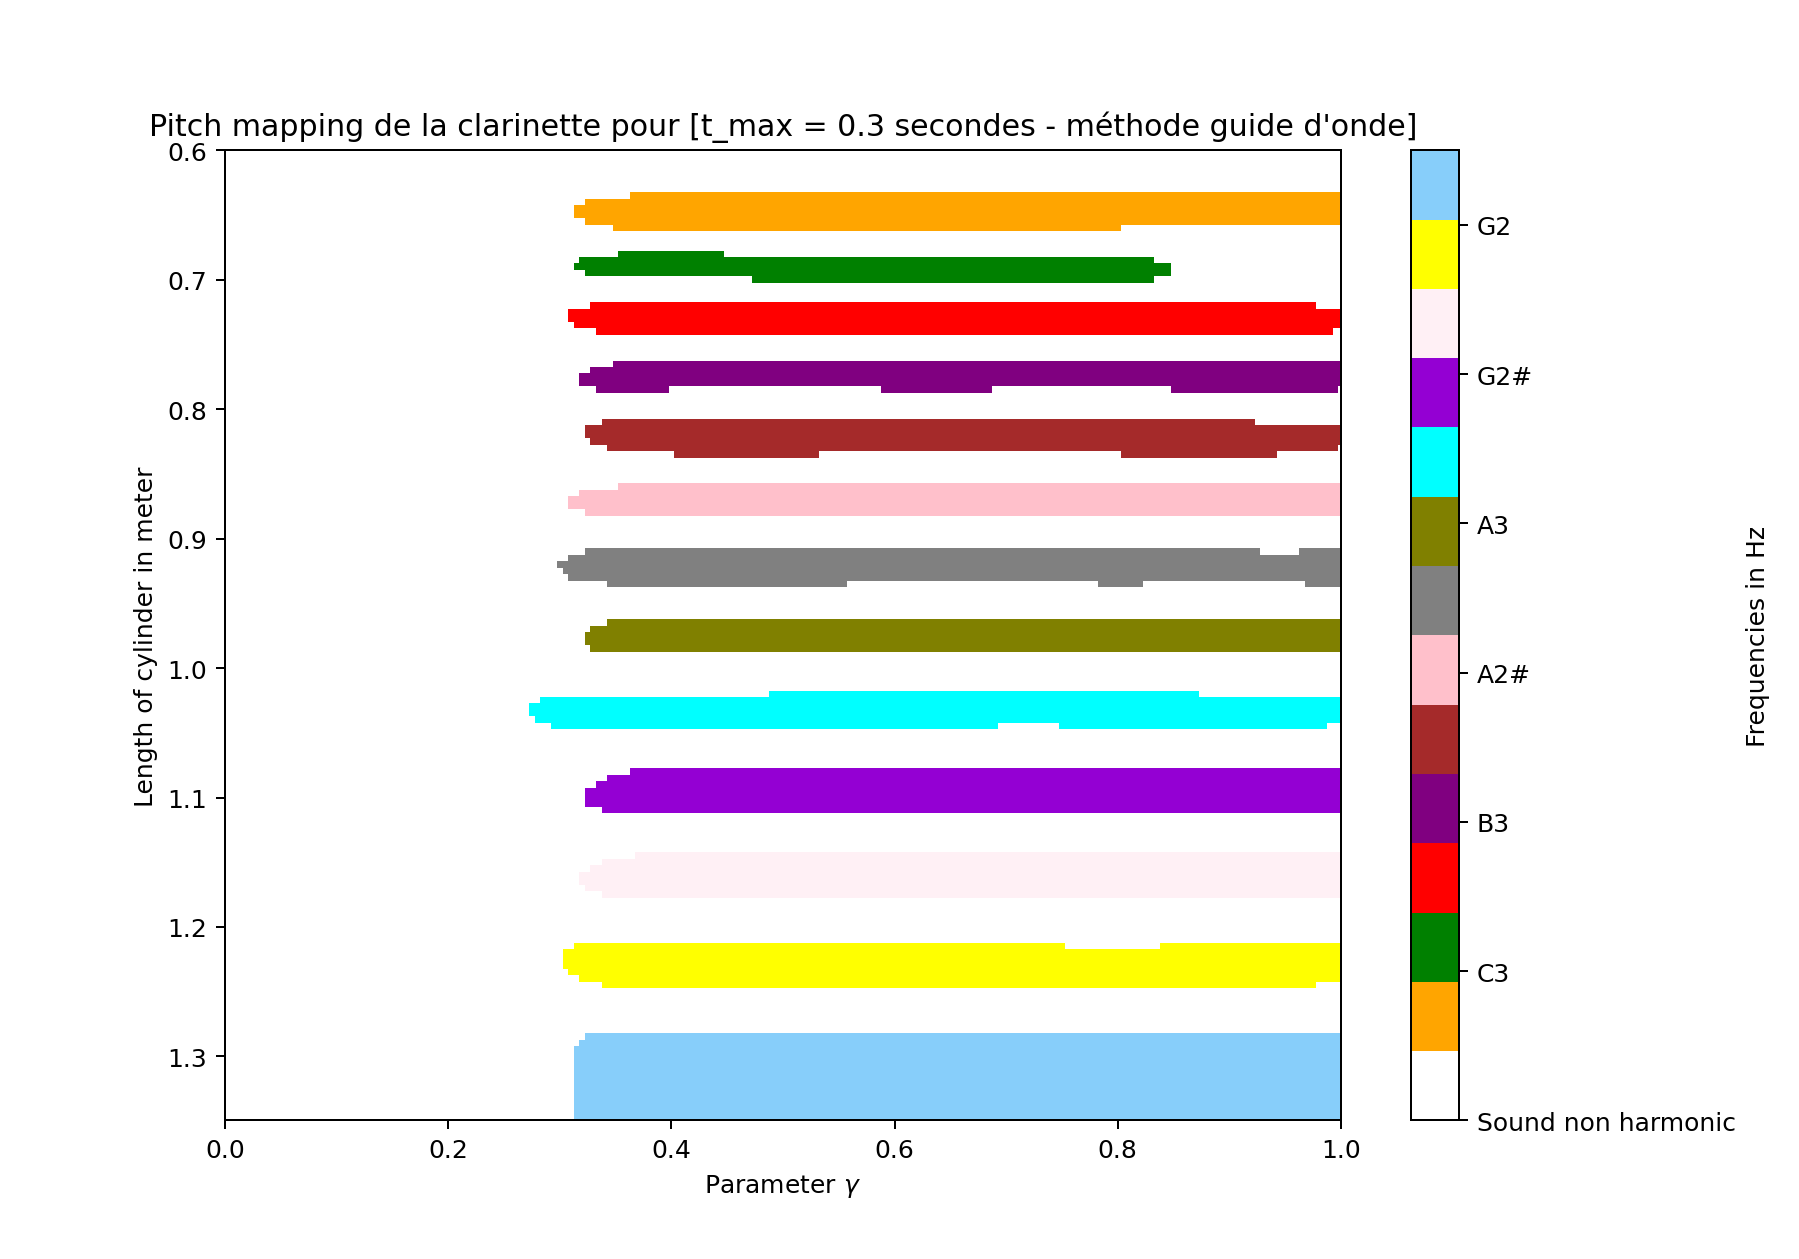
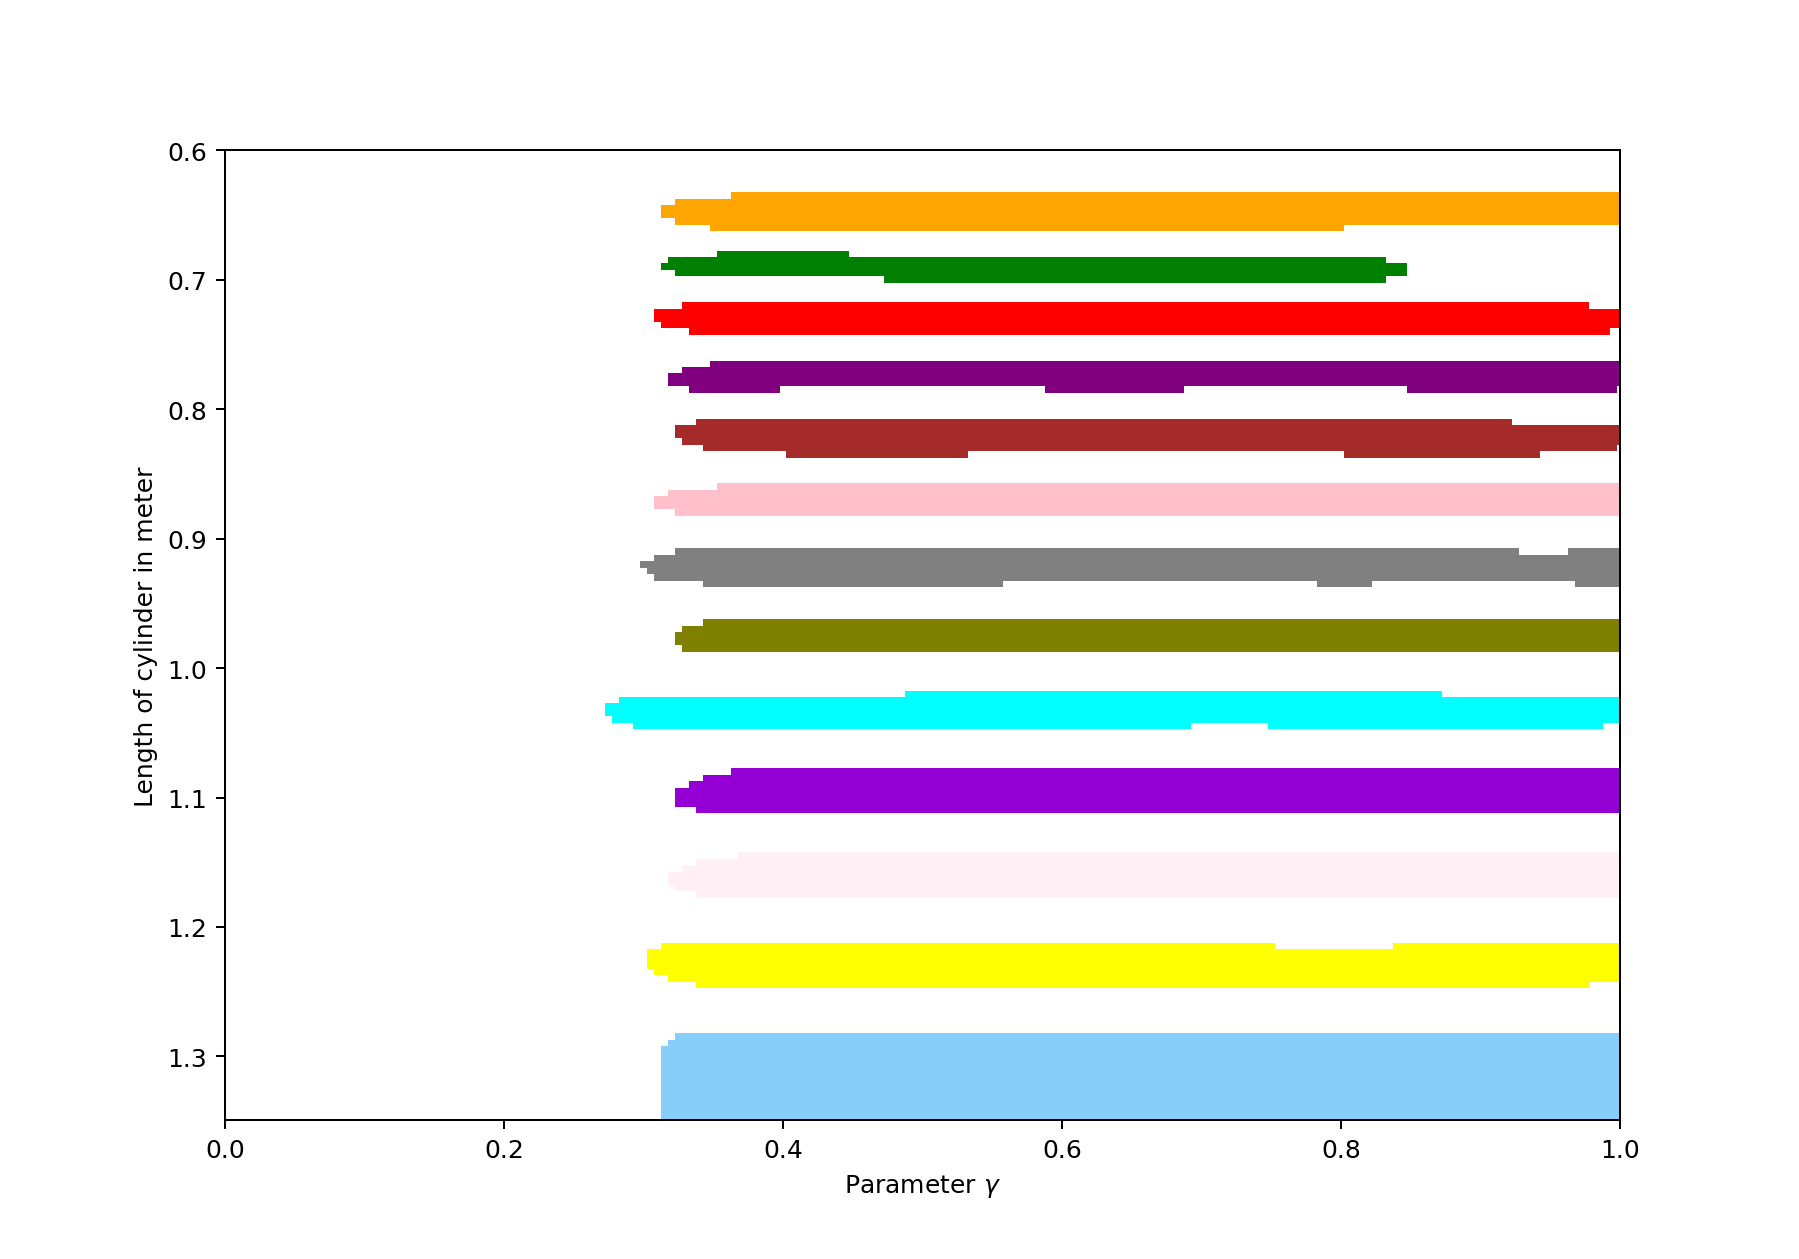
Mapping

diff --git a/mapping_simulation.m b/mapping_simulation.m
@@ -1,57 +1,62 @@
 fontSize = 14; 
-%++++++++++++++++++++++++++++++++++++++++++++++++++++++++++++++++++++++++++++++
-%++++++++++++++++++++++++++++++++++++++++++++++++++++++++++++++++++++++++++++++
+%++++++++++++++++++++++++++++++++++++++++++++++++++++++++++++++++++++++++++
+%++++++++++++++++++++++++++++++++++++++++++++++++++++++++++++++++++++++++++
 % By Malena Fouillou
 %
 % Implémentation de la méthode d'échantillonnage adaptatif dans le cas d'une étude des régimes
 % de fonctionnement des instruments auto-oscillant : clarinette et violon.
 %
-% --> Elle comprend la définiton des paramètres observée souhaités : le type d'instrument, le
-%     descripteur, le type de modèle pour la simulation, les paramètres de
-%     contrôle observés etc.
+% --> Elle comprend en entrée la définiton des paramètres observée souhaités : 
+%     - le type d'instrument : clarinette,violon
+%     - le descripteur : soit le pitch , soit la présence de son 
+%     - le type de modèle pour la simulation : guide d'onde ou modale
+%     - les paramètres de contrôle observés : gamma/zeta ou
+%       gamma/longueur du résonnateur
+%     - 
+%
 % --> L'algorithme fait appel à des fonctions Python situés dans 'run_simulation.py, 'descripteurs_utiles.py' et dans le dossier
 %     "modelisation_physique".
 %
-%++++++++++++++++++++++++++++++++++++++++++++++++++++++++++++++++++++++++++++++
-%++++++++++++++++++++++++++++++++++++++++++++++++++++++++++++++++++++++++++++++
+%++++++++++++++++++++++++++++++++++++++++++++++++++++++++++++++++++++++++++
+%++++++++++++++++++++++++++++++++++++++++++++++++++++++++++++++++++++++++++
 
-modele = "guide_onde"    % Modèle choisit : guide_onde ou modale
-descriptor = "are_there_oscillations"     % Descripteur à observer
-instrument ='corde' % Type d'instrument étudié
+instrument ='clarinette'                                                   % Type d'instrument étudié
+descriptor = "are_there_oscillations"                                      % Descripteur à observer
+modele = "modale"                                                      % Modèle choisit 
+
 
 % Paramètres de contrôle 
 abscisse = "gamma" 
-abscisse_max = 1  %Étendue de l'axe
+abscisse_max = 1                                                           %Étendue de l'axe
 ordonnee = "zeta" 
-ordonnee_max = 5
+ordonnee_max = 2
 
 % Chargement des paramètres des modèles
-t_max= 0.3         % Durée de la simulation (secondes)
-Fe = 44100         % Fréquence d'échantillonnage (Hz)
-L= 0.6             % Longueur du cylindre (mètre)
-c = 340            % Vitesse des ondes dans l'instrument
-nb_mode = 2        % Nombre de modes considérés dans la méthode modale
-durete_rampe = 20 
-arg_modele= [t_max Fe L c nb_mode durete_rampe] % Arguments en entrée de la fonction du modèle considéré
+t_max= 0.3                                                                 % Durée de la simulation (secondes)
+Fe = 44100                                                                 % Fréquence d'échantillonnage (Hz)
+L= 0.6                                                                    % Longueur du cylindre/corde (mètre)
+c = 340                                                                    % Vitesse des ondes dans l'instrument
+nb_mode = 2                                                                % Nombre de modes considérés ( dans la méthode modale )
+durete_rampe = 20                                                          % Pente d'évolution de gamma
+% Arguments en entrée de la fonction du modèle considéré : 
+arg_modele= [t_max Fe L c nb_mode durete_rampe] 
 
 % Chargement des paramètres des descripteurs : fréquences harmoniques observées sur une gamme choisie
 note_frequencies = [65.41, 69.3, 73.42, 77.78, 82.41, 87.31, 92.5, 98, 103.83, 110, 116.54, 123.47, 130.8] 
 
 % Chargement des paramètres de sampling
-num_samples = 50  % Nombre de points pour le mapping initiale
-iterations =  150 % Nombre d'itérations de la méthode d'échantillonnage adaptatif
-
-
+num_samples = 30                                                           % Nombre de points pour le mapping initiale
+iterations =  150                                                          % Nombre d'itérations de la méthode d'échantillonnage adaptatif
 
 if descriptor == "are_there_oscillations"
 
-    %++++++++++++++++++++++++++++++++++++++++++++++++++++++++++++++++++++++++++
+    %++++++++++++++++++++++++++++++++++++++++++++++++++++++++++++++++++++++
     % ECHANTILLONNAGE INITIAL - OSCILLATIONS ENTRETENUES 
-    %++++++++++++++++++++++++++++++++++++++++++++++++++++++++++++++++++++++++++
+    %++++++++++++++++++++++++++++++++++++++++++++++++++++++++++++++++++++++
     % Paramètres descripteurs
-    dim1 = [0,abscisse_max] % Étendue des axes, ici gamma 
-    dim2 = [0,ordonnee_max] % Ici Zeta
-    epsilon = 0.6           % Critère d'amplitude d'oscillations 
+    dim1 = [0.1,abscisse_max]                                              % Étendue des axes, ici gamma 
+    dim2 = [0,ordonnee_max]                                                % Ici Zeta
+    epsilon = 0.6                                                          % Critère d'amplitude d'oscillations 
     arg_descriptor= [epsilon]
     
     % Sélection de points au hasard : 
@@ -78,9 +83,9 @@ if descriptor == "are_there_oscillations"
      % Calcul de sa SVM
      svm =CODES.fit.svm(X,label);
    
-     %++++++++++++++++++++++++++++++++++++++++++++++++++++++++++++++++++++++++++
+     %+++++++++++++++++++++++++++++++++++++++++++++++++++++++++++++++++++++
      % ECHANTILLONNAGE ADAPTATIF - OSCILLATIONS ENTRETENUES 
-     %++++++++++++++++++++++++++++++++++++++++++++++++++++++++++++++++++++++++++
+     %+++++++++++++++++++++++++++++++++++++++++++++++++++++++++++++++++++++
      for i=2:iterations
          % Calcul d'un nouveau sample
          x_mm=CODES.sampling.mm(svm,[min(dim1) min(dim2)],[max(dim1) max(dim2)]);
@@ -117,15 +122,15 @@ if descriptor == "are_there_oscillations"
 
 elseif descriptor == "pitch"
     
-    %++++++++++++++++++++++++++++++++++++++++++++++++++++++++++++++++++++++++++
+    %++++++++++++++++++++++++++++++++++++++++++++++++++++++++++++++++++++++
     % ECHANTILLONNAGE INITIAL : PITCH
-    %++++++++++++++++++++++++++++++++++++++++++++++++++++++++++++++++++++++++++
-    indices_freq_ = [11] % Fréquences observées pour la classification one VS all
-    zeta = 0.5  % Zeta constant 
-    epsilon_length = 0.05     % Marge de longueurde l'instrument
-    osc_threshold = 0.6       % Critère d'oscillations (ou non)
-    cents_threshold = 15      % Différence maximale en cent par rapport à la note de référence 
-    dim1 = [0.1,abscisse_max] % Valeurs de gamma
+    %++++++++++++++++++++++++++++++++++++++++++++++++++++++++++++++++++++++
+    indices_freq_ = [8]                                                   % Fréquences observées pour la classification one VS all
+    zeta = 0.6                                                             % Zeta constant 
+    epsilon_length = 0.05                                                  % Marge de longueurde l'instrument
+    osc_threshold = 0.6                                                    % Critère d'oscillations (ou non)
+    cents_threshold = 15                                                   % Différence maximale en cent par rapport à la note de référence 
+    dim1 = [0.1,abscisse_max]                                              % Valeurs de gamma
     dim2 = [ c/(4*note_frequencies(end))-epsilon_length,  c/(4*note_frequencies(1))+epsilon_length]
 
     figure('Position',[200 200 500 500])
@@ -162,18 +167,19 @@ elseif descriptor == "pitch"
             end
         end
 
-        if sum(label)==0 % Si la fréquence observée n'est pas trouvé (tous les labels =0) l'algorithme passe
-                         % à la suivante, sinon il suit à la méthode
-                         % d'échantillonnage adaptatif
+        if sum(label)==0                                                   % Si la fréquence observée n'est pas trouvé
+                                                                           % (tous les labels       =0), l'algorithme passe
+                                                                           % à la suivante, sinon il suit à la méthode
+                                                                           % d'échantillonnage adaptatif
             continue
         else 
 
             % Calcul de sa SVM
             svm =CODES.fit.svm(X,label);
 
-            %++++++++++++++++++++++++++++++++++++++++++++++++++++++++++++++++++
+            %++++++++++++++++++++++++++++++++++++++++++++++++++++++++++++++
             % ECHANTILLONNAGE ADAPTATIF : PITCH
-            %++++++++++++++++++++++++++++++++++++++++++++++++++++++++++++++++++
+            %++++++++++++++++++++++++++++++++++++++++++++++++++++++++++++++
             for n=2:iterations
                 % Calcul d'un nouveau sample
                 x_mm=CODES.sampling.mm(svm,[min(dim1) min(dim2)],[max(dim1) max(dim2)]);
@@ -215,9 +221,9 @@ elseif descriptor == "pitch"
     % note_frequencies(1))
     % telle que la fonction labels de 'run_simulation.py' renvoie idx = 0.
     freq0 = 0 
-    %++++++++++++++++++++++++++++++++++++++++++++++++++++++++++++++++++++++++++
+    %++++++++++++++++++++++++++++++++++++++++++++++++++++++++++++++++++++++
     % ECHANTILLONNAGE INITIAL : PITCH
-    %++++++++++++++++++++++++++++++++++++++++++++++++++++++++++++++++++++++++++    
+    %++++++++++++++++++++++++++++++++++++++++++++++++++++++++++++++++++++++
     % Sélection de points au hasard : 
     X  = double(pyrunfile("mapping_initialisation.py","X", ...
         abscisse=abscisse, ...
@@ -248,9 +254,9 @@ elseif descriptor == "pitch"
     % Calcul de sa SVM
     svm =CODES.fit.svm(X,label);
 
-    %++++++++++++++++++++++++++++++++++++++++++++++++++++++++++++++++++
+    %++++++++++++++++++++++++++++++++++++++++++++++++++++++++++++++++++++++
     % ECHANTILLONNAGE ADAPTATIF : PITCH
-    %++++++++++++++++++++++++++++++++++++++++++++++++++++++++++++++++++
+    %++++++++++++++++++++++++++++++++++++++++++++++++++++++++++++++++++++++
     for i=2:iterations
 
         % Calcul d'un nouveau sample

diff --git a/descripteurs_utiles.py b/descripteurs_utiles.py
@@ -43,13 +43,14 @@ def are_there_oscillations(waveform, epsilon):
     True or False selon la condition : y-a-t-il oscillation ou non ?
     """
     
-    N2_3 = int(len(waveform) / 3) #Intervalle d'observation du signal, choisi au dernier tier du temps de simulation
-    
-    waveform[N2_3:] = waveform[N2_3:] -np.mean(waveform[N2_3:]) #centrage en zéro du signal
-
-    waveform[N2_3:] = waveform[N2_3:]/np.max(waveform[N2_3:]) #Normalisation du signal observé
-
-    criterion = np.mean(np.abs(waveform[N2_3:])) #Calcul de la moyenne du signal normalisé      
+    N2_3 = int(len(waveform) / 3)                #Intervalle d'observation du signal, choisi au dernier tier du temps de simulation
+     
+    waveform_ = waveform[N2_3:]                  #Zone du signal à observer
+    waveform_ = waveform_- np.mean(waveform_)     #Centrage en zéro
+    waveform_= waveform_/np.max(np.abs(waveform_))       #Normalisation
+  
+    criterion = np.mean(np.abs(waveform_))       #Calcul de la moyenne du signal  
+     
     return criterion > epsilon 
 
 
@@ -61,7 +62,7 @@ def get_f0(waveform, sr, fmin=librosa.note_to_hz("C2"), fmax=librosa.note_to_hz(
     then the final F0 is obtained using the mean of the last 2/3 frames.
     """
     
-    n_1_3 = int(np.rint(len(waveform) / 3)) #Intervalle d'observation du signal
+    n_1_3 = int(np.rint(len(waveform) / 3))                         #Intervalle d'observation du signal
     f0 = librosa.yin(waveform[n_1_3:], fmin=fmin, fmax=fmax, sr=sr) #Fréquence fondamentale du signal observé
     return np.mean(f0[1:])
 
@@ -77,7 +78,7 @@ def f0_to_categorical(f0, ref_frequencies, epsilon):
         epsilon (int): Theshold in cents
     """
     
-    n_cents = np.abs(1200 * np.log(f0 / ref_frequencies)) #écart entre fréquence fondamentale du signal et celles de référence
+    n_cents = np.abs(1200 * np.log(f0 / ref_frequencies))           #Écart entre fréquence fondamentale du signal et celles de référence
     idx = np.argmin(n_cents)
     if n_cents[idx] > epsilon:
         return False, None
